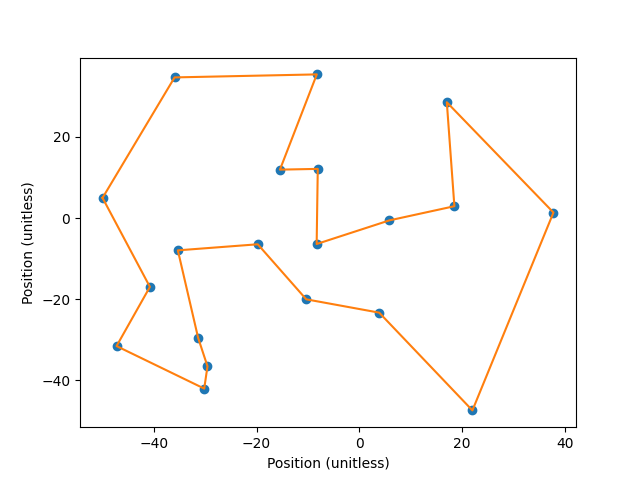
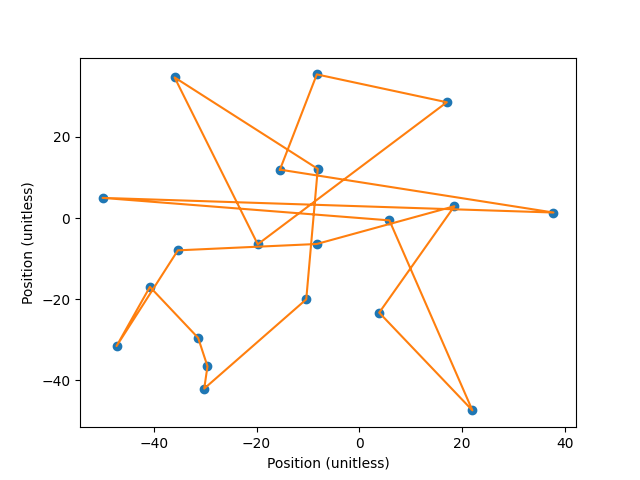
added kruskal

diff --git a/kruskal_main.py b/kruskal_main.py
@@ -1,0 +1,76 @@
+"""Simple Vehicles Routing Problem."""
+import numpy as np
+import timeit
+
+import christofides_tsp
+from utils import *
+from Sets import Sets
+from Set import Set
+home = Waypoint(0, 0, 50.0)
+
+TIME_LIMIT = 1
+num_vehicles = 1
+samples = 20
+np.set_printoptions( threshold=1000, linewidth=1000)
+
+def get_cost(distance_matrix, path):
+    cost = 0
+    for i in range(1, len(path), 1):
+        cost += distance_matrix[i-1][i]
+    return cost
+
+
+if __name__ == '__main__':
+    start_time = timeit.default_timer()
+    sorted = build_graph(samples)
+    print(sorted)
+    # graph = np.array(sorted)
+    p = []
+    edges = []
+    path = Edge(0, 0, 0)
+    my_set = None
+
+    while True:
+        for edge in sorted:
+            print(edge.start, edge.end)
+            start = edge.start
+            end = edge.end
+            if my_set is None:
+                my_set = Set(start, end)
+            else:
+                my_set.add(start, end)
+
+        for node in my_set.nodes:
+            print(node)
+
+        print(len(my_set.nodes))
+        # for node in my_set.nodes:
+        #     print(node in my_set.nodes)
+        #     # print(node)
+        if len(my_set.nodes) is samples:
+            break
+
+    ans = ''
+    for node in my_set.nodes:
+        print(node)
+
+    for node in my_set.nodes:
+        ans += str(node.id) + ','
+    print(ans)
+
+
+
+
+
+
+    # print(graph)
+    # path = christofides_tsp.christofides_tsp(graph)
+    # cost = get_cost(distance_matrix, path)
+    # print('christofides path', path, 'cost', cost)
+    #
+    # plot_results([path], waypoints, home, num_vehicles, 'christofides.png')
+    # path = [0, 4, 2, 1, 5, 7, 6, 18, 14, 10, 11, 8, 9, 13, 15, 17, 19, 16, 12, 3]
+    # plot_results([path], waypoints, home, num_vehicles, 'pso.png')
+    # # christofides_tsp(graph)
+    stop_time = timeit.default_timer()
+    print('time elapsed', stop_time - start_time)

diff --git a/Set.py b/Set.py
@@ -1,0 +1,60 @@
+import numpy as np
+
+class Set:
+    def __init__(self, start, end):
+        self.start = start
+        self.end = end
+        # self.weight = weight
+        self.end.next = self.start
+        self.start.next = None
+        self.nodes = []
+        self.nodes.append(start)
+        self.nodes.append(end)
+
+    def add(self, start, end):
+        succeed = True
+
+        if end not in self.nodes and start == self.nodes[-1]:
+            # end.next = self.start
+            print("gets heress")
+            self.nodes.append(end)
+            return succeed
+        elif start not in self.nodes and end == self.nodes[-1]:
+            # end.next = self.start
+            print("gets heress")
+            self.nodes.append(start)
+            return succeed
+        elif end not in self.nodes and start == self.nodes[0]:
+            # self.nodes[0].next = end
+            print("gets heress")
+            self.nodes.insert(0, end)
+            return succeed
+        elif start not in self.nodes and end ==  self.nodes[0]:
+            # self.nodes[0].next = start
+            print("gets heress")
+            self.nodes.insert(0, start)
+            return succeed
+
+
+        else:
+            # print('cannot insert the start and end nodes')
+            print(start, end, self.nodes[0], self.nodes[-1], end in self.nodes )
+            return not succeed
+
+    def __str__(self):
+        line = 'Set0:'
+        for node in self.nodes:
+            line += str(node.id) + ' '
+        # print(self.nodes)
+        return line
+
+    # def add_all(self, start, nodes):
+    #     for node in nodes:
+    #         if node is nodes:
+    #             print('node already in the nodes.  ')
+    #
+    #     if start is self.nodes[-1]:
+    #         for i in range(len(nodes) - 1):
+    #             self.nodes.append(nodes[i + 1])
+
+

diff --git a/utils.py b/utils.py
@@ -4,6 +4,9 @@ from random import randint
 from matplotlib import pyplot as plt
 from Waypoint import Waypoint
 import math
+from Node import Node
+from Edge import Edge
+
 def minimal_spanning_tree(graph, mode='Prim', starting_node=None):
     """
 
@@ -152,3 +155,48 @@ def build_distance_matrix(samples, home):
             dist = math.sqrt((waypoint_a_x - waypoint_b_x) ** 2 + (waypoint_a_y - waypoint_b_y) ** 2 )
             distance_matrix[j][i] = dist
     return distance_matrix, waypoints
+
+
+def build_graph(samples):
+    """Entry point of the program."""
+    np.random.seed(1)
+    x = np.random.rand(samples, 1) * 100 - 50
+    np.random.seed(2)
+    y = np.random.rand(samples, 1) * 100 - 50
+    id = [0, 1,   2,  3, 4, 5, 6,   7, 8,  9, 10]
+    # x = [10, -10, 10, 2, 5, 6, 7,   9, -6, 1]
+    # y = [1,  -5,  2,  5, 5, 7, 10, -3, 4, -10]
+    node_list = []
+    edge_list = []
+
+    id = 0
+    for xx, yy in zip(x, y):
+        print(xx, yy)
+        node_list.append(Node(xx, yy, id))
+        id += 1
+
+
+    # print(len(node_list))
+    for i in range(len(node_list)):
+        for j in range(len(node_list)):
+            if i is not j:
+                node0 = node_list[i]
+                node1 = node_list[j]
+                if node0.x == node1.x and node0.y == node1.y:
+                    continue
+                else:
+                    distance = math.sqrt((node0.x - node1.x) ** 2 + (node0.y - node1.y) ** 2)
+                    # print('', distance)
+
+                    edge_list.append(Edge(node0, node1, distance))
+    edge_list.sort()
+    print('=========')
+    for edge in edge_list:
+        print(edge)
+    # for node in node_list:
+    #     print(node)
+    # print('sorted', edge_list)
+
+    print('=========')
+    return edge_list
+

diff --git a/single_main_plot.py b/single_main_plot.py
@@ -47,7 +47,7 @@ def plot_results(routes, waypoints, home, num_vehicles):
             last_y = current_y
             current_x = waypoints[route_index].x
             current_y = waypoints[route_index].y
-            print_ros_command(current_x, current_y)
+            # print_ros_command(current_x, current_y)
             if last_x is not None and last_y is not None:
                 # print('haha', last_x, last_y, current_x, current_y)
                 step = np.sqrt((current_x - last_x) ** 2 + (current_y - last_y) ** 2)
@@ -91,6 +91,8 @@ def main():
     np.random.seed(2)
     y = np.random.rand(samples, 1) * 100 - 50
     best_route_distance = 999
+    print(x)
+    print(y)
     id = [0, 1,   2,  3, 4, 5, 6,   7, 8,  9, 10]
     # x = [10, -10, 10, 2, 5, 6, 7,   9, -6, 1]
     # y = [1,  -5,  2,  5, 5, 7, 10, -3, 4, -10]
@@ -99,7 +101,7 @@ def main():
         # print(xx, yy)
         waypoints.append(Waypoint(xx, yy, 50.0))
 
-    waypoints.sort()
+    # waypoints.sort()
 
     ends = [1]
     starts = [0]
@@ -126,7 +128,10 @@ def main():
     # routes = [[0, 3, 12, 13, 9, 11, 15, 17, 16, 19, 18, 14, 10, 8, 4, 2, 5, 7, 6, 1, 0]] # christofides
     # routes = [[0, 3, 12, 13, 9, 11, 15, 17, 16, 19, 18, 14, 10, 8, 4, 2, 5, 7, 6, 1, 0]] # christofides
     # routes = [[0, 4, 2, 1, 5, 7, 6, 18, 14, 10, 11, 8, 9, 13, 15, 17, 19, 16, 12, 3, 0]] # prob
-    routes = [[0, 3, 12, 9, 13, 11, 15, 17, 16, 19, 18, 14, 10, 8, 4, 5, 7, 6, 1,  2,0]]  # rl
+    # routes = [[0, 3, 12, 9, 13, 11, 15, 17, 16, 19, 18, 14, 10, 8, 4, 5, 7, 6, 1,  2,0]]  # rl
+    routes = [[12,19]]  # rl
+
+    routes = [[7,13,2,17,1,9,11,0,4,14,5,6,12,19,8,10,18,3,15,16,7]]  # rl
 
         # routes, max_route_distance = print_solution(data, manager, routing, solution)
     home_index = ends[0]

diff --git a/Edge.py b/Edge.py
@@ -1,0 +1,33 @@
+import numpy as np
+
+class Edge:
+    def __init__(self, start, end, weight):
+        self.start = start
+        self.end = end
+        self.weight = weight
+        self.next = None
+
+    def __lt__ (self, other):
+        return self.weight < other.weight
+
+    def __gt__ (self, other):
+        return self.weight > other.weight
+
+    def __eq__ (self, other):
+        return self.weight == other.weight
+    #
+    # def __eq__(self, other):
+    #     if self.weight is not other.weight:
+    #         return self.weight > other.weight
+    #     elif self.start is not other.start:
+    #         return self.start > other.start
+    #     elif self.end is not other.end:
+    #         return self.end > other.end
+    #     else:
+    #         return 0
+
+
+
+    def __str__(self):
+       return str(self.weight) + ' ' + str(self.start.id) + ' ' + str(self.end.id)
+

diff --git a/Sets.py b/Sets.py
@@ -1,0 +1,22 @@
+import numpy as np
+from Set import Set
+class Sets:
+    def __init__(self):
+
+        self.sets = []
+
+    def add(self, start, end):
+
+        if not self.sets:
+            self.sets.append(Set(start, end))
+            print('gers jher')
+        else:
+            found = False
+            for set in self.sets:
+                res = set.add(start, end)
+                if res is True:
+                    found = True
+                    break
+            # if not found:
+            #     self.sets.append(Set(start, end))
+        # print(len(self.sets))

diff --git a/Node.py b/Node.py
@@ -1,0 +1,19 @@
+import numpy as np
+class Node:
+    def __init__(self, x, y, id):
+        self.x = float(x)
+        self.y = float(y)
+        self.id = id
+
+    def __eq__(self, other):
+        return other.id == self.id
+
+
+    def __str__(self):
+        return 'x: ' + str(self.x) + ', y: ' + str(self.y) + 'id: ' + str(self.id)
+        # return str(self.id)
+
+    def exact_eq(self, other):
+        distance = np.sqrt((self.x - other.x)**2 + (self.y - other.y)**2)
+        return distance < 1e-3
+

diff --git a/test.py b/test.py
@@ -1,0 +1,10 @@
+from Node import Node
+
+node0 = Node(1,1,0)
+node1 = Node(2,1,1)
+
+nodes = []
+# nodes.append(node0)
+nodes.append(node1)
+
+print(node0 == nodes[-1])
